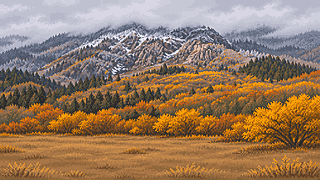
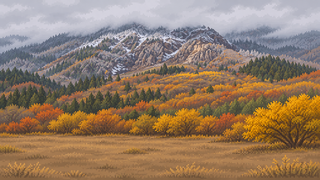
Blend the backgrounds into the game without changing them
- Rebuild backgrounds one cell per pixel from the original art, with no
  sharpening, colour boost or 40-colour palette
- Scale the pixel buffer by a whole number first, then smooth only the
  remainder, so every cell is the same size on any screen
- Ground tiles, chasm colours, sprites and props lean towards each
  station's background colours (tools/bgtone.py -> js/bgtone.js); water
  in gaps reflects the current background

Claude-Session: https://claude.ai/code/session_01CguavxuoETr6EfHmwYqpVa

diff --git a/js/gfx/regions.js b/js/gfx/regions.js
@@ -21,9 +21,24 @@
   };
   const ALL_BG = [...new Set(Object.values(R).flatMap(r => Object.values(r.bg).flat()))];
 
+  // ------------------------------------------------------------ 背景色调（js/bgtone.js）：前景往背景的颜色上靠
+  const TONE = RF.BGTONE || {};
+  const meanHex = list => {
+    const cs = list.map(c => U.hex(c)).filter(Boolean);
+    if (!cs.length) return null;
+    const m = [0, 1, 2].map(i => Math.round(cs.reduce((a, c) => a + c[i], 0) / cs.length));
+    return '#' + m.map(v => v.toString(16).padStart(2, '0')).join('');
+  };
+  const REGTONE = {};
+  for (const id in R) {
+    const ids = [...new Set(Object.values(R[id].bg).flat())];
+    REGTONE[id] = { low: meanHex(ids.map(b => TONE[b] && TONE[b].low).filter(Boolean)), hor: meanHex(ids.map(b => TONE[b] && TONE[b].hor).filter(Boolean)) };
+  }
+
   // ------------------------------------------------------------ 载入
   const IMG = {}, NIGHT = {};
-  let sprites = null, spritesNight = null, spritesDim = null;
+  let sprites = null, spritesNight = null, spritesDim = null, curRid = null;
+  const spritesReg = {};
   function load(done) {
     const list = ALL_BG.map(id => ['bg/' + id + '.png', id]).concat([['sprites.png', '__sprites']]);
     let left = list.length;
@@ -35,12 +50,21 @@
             sprites = im;
             spritesNight = tint(im, '#7684c0');
             spritesDim = tint(im, '#aab2d8');
+            // 每站的人物与道具带一点这一站背景的色温
+            for (const id in R) if (REGTONE[id].hor) spritesReg[id] = mixTint(im, REGTONE[id].hor, 0.14);
           } else { IMG[id] = im; NIGHT[id] = X.nightOf(im); }
         }
         if (--left === 0) { buildTiles(); RF.Regions.ready = true; done(); }
       };
       im.src = 'assets/' + file;
     });
+  }
+  // 往某个颜色上靠 a（0~1），保留明暗与透明
+  function mixTint(im, col, a) {
+    const c = X.canvas(im.width, im.height), x = c.getContext('2d');
+    x.drawImage(im, 0, 0);
+    x.globalCompositeOperation = 'source-atop'; x.globalAlpha = a; x.fillStyle = col; x.fillRect(0, 0, c.width, c.height);
+    return c;
   }
   function tint(im, col) {
     const c = X.canvas(im.width, im.height), x = c.getContext('2d');
@@ -107,13 +131,15 @@
   }
   function buildTiles() {
     for (const id in R) {
-      const k = R[id].tile;
-      if (!TILE[k]) { const d = makeTile(k); TILE[k] = { day: d, night: tint(d, '#6a78b4') }; }
+      // 地面花纹往这一站背景下半截的颜色上靠，和画面成一体
+      const base = makeTile(R[id].tile), lo = REGTONE[id].low;
+      const d = lo ? mixTint(base, lo, 0.3) : base;
+      TILE[id] = { day: d, night: tint(d, '#6a78b4') };
     }
   }
   function pattern(ctx, rid, world) {
     const key = rid + world;
-    if (!PAT[key]) PAT[key] = ctx.createPattern(TILE[R[rid].tile][world], 'repeat');
+    if (!PAT[key]) PAT[key] = ctx.createPattern(TILE[rid][world], 'repeat');
     return PAT[key];
   }
 
@@ -143,14 +169,19 @@
     }
     return { a: LV.regionAt(centre), b: null, t: 0 };
   }
+  const shownBg = {};     // 每站当前显示的背景图（水面倒影用）
   function backdrop(ctx, G, world, centre) {
     const m = regionMix(centre);
     const A = bgAt(G, m.b === null ? centre : Math.min(centre, LV.regions[m.b].x0 - 1));
+    shownBg[A.rid] = A.fade > 0.5 && A.next ? A.next : A.cur;
+    curRid = A.rid;
     drawImg(ctx, A.cur, world, 1);
     if (A.next && A.fade > 0) drawImg(ctx, A.next, world, A.fade);
     if (m.b !== null && m.t > 0) {
       const B = bgAt(G, LV.regions[m.b].x0 + 1);
       drawImg(ctx, B.cur, world, m.t);
+      shownBg[B.rid] = B.cur;
+      if (m.t > 0.5) curRid = B.rid;
     }
     return m;
   }
@@ -162,7 +193,17 @@
     if (cfg.water) {
       const wy = Math.round(cfg.water[world] / P);
       const col = cfg.waterCol[world === 'day' ? 0 : 1];
-      ctx.fillStyle = col; ctx.fillRect(0, wy, PW, PH + 16 - wy);
+      // 水面倒映这一站的背景：把水线以上的画面上下翻过来，再罩一层水色
+      const id = shownBg[rid], im = id && (world === 'night' ? NIGHT[id] : IMG[id]);
+      const hgt = PH + 16 - wy, s = wy + (X.oy || 0);
+      if (im && s - hgt > -hgt) {
+        ctx.save(); ctx.translate(0, 2 * wy); ctx.scale(1, -1);
+        const sy = Math.max(0, s - hgt), sh = s - sy;
+        if (sh > 0) ctx.drawImage(im, 0, sy, PW, sh, 0, wy - sh, PW, sh);
+        ctx.restore();
+        ctx.globalAlpha = a * 0.32; ctx.fillStyle = col; ctx.fillRect(0, wy, PW, hgt);
+        ctx.globalAlpha = a;
+      } else { ctx.fillStyle = col; ctx.fillRect(0, wy, PW, hgt); }
       ctx.fillStyle = 'rgba(0,0,10,0.25)'; ctx.fillRect(0, wy + 12, PW, PH + 16);
       if (cfg.water.frozen === world) {
         ctx.fillStyle = '#c8e0f4'; ctx.fillRect(0, wy, PW, 1);
@@ -175,7 +216,11 @@
         }
       }
     } else {
-      const [c0, c1] = cfg.abyss;
+      // 深谷：从这一站背景下半截的颜色渐暗下去
+      const lo = REGTONE[rid].low ? U.hex(REGTONE[rid].low) : null;
+      let top0 = lo ? U.mix(lo, U.hex(cfg.abyss[0]), 0.4) : U.hex(cfg.abyss[0]);
+      if (world === 'night') top0 = U.mix(top0, U.hex(cfg.abyss[1]), 0.6);
+      const c0 = '#' + top0.map(v => Math.round(v).toString(16).padStart(2, '0')).join(''), c1 = cfg.abyss[1];
       const top = 150;
       for (let y = top; y < PH + 16; y += 2) {
         ctx.fillStyle = U.rgb(U.mix(U.hex(c0), U.hex(c1), (y - top) / (PH - top)), world === 'day' ? 1 : 1);
@@ -331,6 +376,6 @@
 
   RF.Regions = {
     R, load, foreground, backdrop, regionMix, lowland, pattern, weatherBack, weatherFront, bgAt,
-    get sprites() { return sprites; }, get spritesNight() { return spritesNight; }, get spritesDim() { return spritesDim; }
+    get sprites() { return (curRid && spritesReg[curRid]) || sprites; }, get spritesNight() { return spritesNight; }, get spritesDim() { return spritesDim; }
   };
 })();

diff --git a/js/bgtone.js b/js/bgtone.js
@@ -1,0 +1,3 @@
+// 由 tools/bgtone.py 生成：每张背景的平均色（low 下半截 / hor 远景带 / sky 天空）
+window.RF = window.RF || {};
+RF.BGTONE = {"8518": {"low": "#348ca7", "hor": "#597d96", "sky": "#86a5cd"}, "8519": {"low": "#1b4d54", "hor": "#5c645b", "sky": "#587f9b"}, "8520": {"low": "#9d7349", "hor": "#8d612c", "sky": "#b3b5c2"}, "8521": {"low": "#166c6b", "hor": "#326255", "sky": "#5691d6"}, "8522": {"low": "#483f32", "hor": "#754e30", "sky": "#885539"}, "8523": {"low": "#2c525a", "hor": "#406558", "sky": "#4782cd"}, "8524": {"low": "#678444", "hor": "#5b7168", "sky": "#4f7bb6"}, "8525": {"low": "#4d5d6d", "hor": "#4d6077", "sky": "#486a9d"}, "8526": {"low": "#758674", "hor": "#676d75", "sky": "#92abd3"}, "8527": {"low": "#3f404d", "hor": "#5a6c80", "sky": "#77869e"}, "8528": {"low": "#768290", "hor": "#8095a9", "sky": "#c6cfe1"}, "8530": {"low": "#6e5a5c", "hor": "#744631", "sky": "#71bafa"}, "8531": {"low": "#4d5367", "hor": "#706054", "sky": "#636e9a"}, "8532": {"low": "#634538", "hor": "#774d3d", "sky": "#aa3a2e"}, "8533": {"low": "#5f6798", "hor": "#6e87c1", "sky": "#4b74cd"}, "8534": {"low": "#9dadc9", "hor": "#939db1", "sky": "#b3b5cb"}, "8535": {"low": "#40422b", "hor": "#614e2b", "sky": "#846e39"}, "8536": {"low": "#394d52", "hor": "#404e52", "sky": "#56696e"}, "8537": {"low": "#2e3c42", "hor": "#364146", "sky": "#414d55"}, "8538": {"low": "#476f8b", "hor": "#2e5368", "sky": "#8fb1ce"}, "8539": {"low": "#3f617f", "hor": "#64809e", "sky": "#7392b0"}};

diff --git a/js/gfx/fx.js b/js/gfx/fx.js
@@ -58,7 +58,17 @@
         o.fillStyle = '#0c0a14'; o.fillRect(0, 0, X.outW, X.outH);
         o.setTransform(1, 0, 0, 1, Math.round(shx * k), Math.round(shy * k));
       }
-      o.drawImage(X.buf, 0, 0, X.outW, X.outH);
+      // 屏幕宽度往往不是 320 的整数倍，直接放大会让一格有的宽 5 有的宽 6，画面发糊、移动时闪。
+      // 先按整数倍放大到中间画布（每格一样大），剩下的一点点再平滑缩放，边缘清楚又不抖。
+      const n = Math.ceil(X.outW / PW - 0.001);
+      if (n * PW === X.outW) o.drawImage(X.buf, 0, 0, X.outW, X.outH);
+      else {
+        if (!X.mid || X.mid.width !== PW * n) { X.mid = canvas(PW * n, PH * n); X.midc = X.mid.getContext('2d'); X.midc.imageSmoothingEnabled = false; }
+        X.midc.imageSmoothingEnabled = false;
+        X.midc.drawImage(X.buf, 0, 0, PW * n, PH * n);
+        o.imageSmoothingEnabled = true; o.imageSmoothingQuality = 'high';
+        o.drawImage(X.mid, 0, 0, X.outW, X.outH);
+      }
       o.imageSmoothingEnabled = true;
       o.globalCompositeOperation = 'lighter';
       o.globalAlpha = glowStrength;

diff --git a/index.html b/index.html
@@ -132,6 +132,7 @@
 <script src="js/game.js"></script>
 <script src="js/atlas.js"></script>
 <script src="js/gfx/fx.js"></script>
+<script src="js/bgtone.js"></script>
 <script src="js/gfx/regions.js"></script>
 <script src="js/gfx/props.js"></script>
 <script src="js/gfx/traveler.js"></script>

diff --git a/tools/bgtone.py b/tools/bgtone.py
@@ -1,0 +1,25 @@
+"""背景色调：从每张背景图取几处平均色，生成 js/bgtone.js。
+地面、水面、深谷和人物会往这些颜色上靠一点，让前景和背景像同一幅画。
+（浏览器从本地文件打开时读不了图片像素，所以提前算好。）
+用法：python3 tools/bgtone.py   （换了背景图后运行）
+"""
+import glob, json, os
+from PIL import Image
+
+ROOT = os.path.dirname(os.path.dirname(os.path.abspath(__file__)))
+
+def avg(im, y0, y1):
+    return '#%02x%02x%02x' % im.crop((0, y0, im.width, y1)).resize((1, 1), Image.BOX).getpixel((0, 0))
+
+out = {}
+for f in sorted(glob.glob(os.path.join(ROOT, 'assets', 'bg', '*.png'))):
+    name = os.path.basename(f)[:-4]
+    if not name.isdigit():
+        continue
+    im = Image.open(f).convert('RGB')
+    # low：被地面挡住的下半截；hor：地面上方的远景带；sky：天空
+    out[name] = {'low': avg(im, 140, 180), 'hor': avg(im, 105, 140), 'sky': avg(im, 0, 40)}
+with open(os.path.join(ROOT, 'js', 'bgtone.js'), 'w', encoding='utf-8') as fp:
+    fp.write('// 由 tools/bgtone.py 生成：每张背景的平均色（low 下半截 / hor 远景带 / sky 天空）\n')
+    fp.write('window.RF = window.RF || {};\nRF.BGTONE = ' + json.dumps(out) + ';\n')
+print(len(out), 'backgrounds')

diff --git a/tools/build_assets.py b/tools/build_assets.py
@@ -26,12 +26,7 @@ def build_backgrounds(src):
         for y in range(h // 4):
             for x in range(w // 4):
                 sp[x, y] = px[x * 4 + 2, y * 4 + 2]     # 取每格中心，避开格边
-        # 让像素画更“干净”：轻微锐化、提一点对比和饱和，再压成 40 色（不抖动），去掉照片式的柔和渐变
-        small = small.filter(ImageFilter.UnsharpMask(radius=1.2, percent=85, threshold=1))
-        small = ImageEnhance.Contrast(small).enhance(1.08)
-        small = ImageEnhance.Color(small).enhance(1.1)
-        small = small.quantize(colors=40, method=Image.Quantize.MEDIANCUT, kmeans=3,
-                               dither=Image.Dither.NONE)   # 存成调色板 PNG，体积小
+        # 原样还原：每格一个像素，不锐化、不调色、不压色（v1.2 起；之前压成 40 色会丢细节）
         name = os.path.basename(f).split('_')[1] + '.png'   # IMG_8536_pixel.png → 8536.png
         small.save(os.path.join(OUT_BG, name), optimize=True)
         print('bg', name, small.size)
